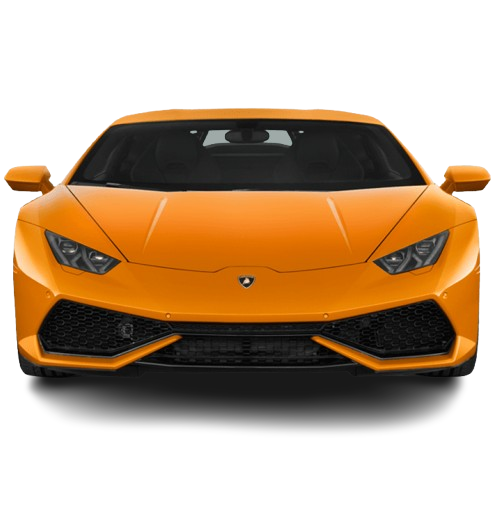
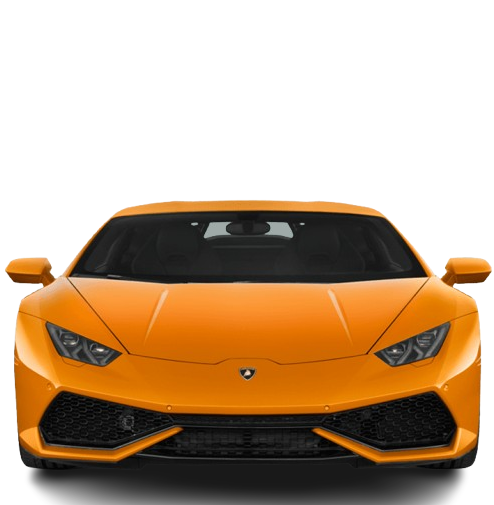
Novas atualizações Site Lamborghini
Feito a garagem dos veículos da Lamborghini;

Imagens não estão boas como eu gostaria, mas vai servir por enquanto.

Feito o alinhamente do elevador apenas para celular, versões para telas maiores ainda será feita.

Quero tentar refazer as duas páginas que tem o mesmo designe, tentar algo que funcione melhor.
O principal problema é o alinhamento em cima do elevador, vou estudar para fazer algo melhor!

diff --git a/Re-desafios/Projeto-Phone/Pages/garagem-lambo.html b/Re-desafios/Projeto-Phone/Pages/garagem-lambo.html
@@ -11,9 +11,10 @@
 
     <main>
         <section class="vagas" id="garagem">
+            <!-- Lamborghini Urus -->
             <div class="modelos" id="modelo">
                 <div class="titulos">
-                    <h1>Lamborghini Urus</h1>
+                    <h1>Urus</h1>
 
                 </div>
 
@@ -29,7 +30,7 @@
 
             <div class="modelos" id="modelo">
                 <div class="titulos">
-                    <h1>Lamborghini Urus</h1>
+                    <h1>Urus</h1>
 
                 </div>
 
@@ -43,15 +44,16 @@
 
             </div>
 
+            <!-- Lamborghini Temerario  -->
             <div class="modelos" id="modelo">
                 <div class="titulos">
-                    <h1>Lamborghini Urus</h1>
+                    <h1>Temerario</h1>
 
                 </div>
 
                 <div class="fotos">
-                    <div class="imagens">
-                        <img src="../images/Lamborghini/Revuelto-front.png" alt="teste">
+                    <div class="imagens imagens-menores">
+                        <img src="../images/Lamborghini/temerario-front.png" alt="teste">
 
                     </div>
 
@@ -61,13 +63,30 @@
 
             <div class="modelos" id="modelo">
                 <div class="titulos">
-                    <h1>Lamborghini Urus</h1>
+                    <h1>Temerario</h1>
 
                 </div>
 
                 <div class="fotos">
-                    <div class="imagens">
-                        <img src="../images/Lamborghini/images-removebg-preview.png" alt="teste">
+                    <div class="imagens imagens-menores">
+                        <img src="../images/Lamborghini/temerario-back.png" alt="teste">
+
+                    </div>
+
+                </div>
+
+            </div>
+
+            <!-- Lamborghini Revuelto -->
+            <div class="modelos" id="modelo">
+                <div class="titulos">
+                    <h1>Revuelto</h1>
+
+                </div>
+
+                <div class="fotos">
+                    <div class="imagens imagens-menores">
+                        <img src="../images/Lamborghini/revuelto-front.png" alt="teste">
 
                     </div>
 
@@ -77,15 +96,36 @@
 
             <div class="modelos" id="modelo">
                 <div class="titulos">
-                    <h1>Lamborghini Urus</h1>
+                    <h1>Revuelto</h1>
 
                 </div>
 
                 <div class="fotos">
                     <div class="imagens">
-                        <img src="../images/Lamborghini/images-removebg-preview.png" alt="teste">
+                        <img src="../images/Lamborghini/revuelto-back.png" alt="teste">
 
                     </div>
+
+                </div>
+
+                </div>
+
+            </div>
+
+            <!-- Lamborghini Huracan -->
+            <div class="modelos" id="modelo">
+                <div class="titulos">
+                    <h1>Huracan</h1>
+
+                </div>
+
+                <div class="fotos">
+                    <div class="imagens" id="huracan">
+                        <img src="../images/Lamborghini/huracan-front.png" alt="teste">
+
+                    </div>
+
+                </div>
 
                 </div>
 
@@ -93,13 +133,13 @@
 
             <div class="modelos" id="modelo">
                 <div class="titulos">
-                    <h1>Lamborghini Urus</h1>
+                    <h1>Huracan</h1>
 
                 </div>
 
                 <div class="fotos">
-                    <div class="imagens">
-                        <img src="../images/Lamborghini/images-removebg-preview.png" alt="teste">
+                    <div class="imagens imagens-menores">
+                        <img src="../images/Lamborghini/huracan-back.png" alt="teste">
 
                     </div>
 

diff --git a/Re-desafios/Projeto-Phone/styles/garagem-lamborghini.css b/Re-desafios/Projeto-Phone/styles/garagem-lamborghini.css
@@ -27,7 +27,7 @@ body {
     width: 100vw;
     height: 100vh;
 
-    background: black url("../images/Lamborghini/Background-image5.jpg") no-repeat center center/cover;
+    background: black url("../images/Lamborghini/Background-image3.jpg") no-repeat center center/cover;
 
 }
 
@@ -48,7 +48,7 @@ section.vagas {
     /*height: 550px;*/
     height: 63%;
 
-    margin-top: 120px;
+    margin-top: 70px;
 
     overflow-x: scroll;
 
@@ -86,7 +86,7 @@ section.vagas::-webkit-scrollbar-thumb:active {
 /* Modelos */
 section.vagas .modelos {
     width: 100%;
-    height: 99%;
+    height: 97%;
 
     flex-shrink: 0;
 
@@ -98,15 +98,15 @@ section.vagas .modelos {
 
 section.vagas .modelos .titulos {
     width: 70%;
-    height: 150px;
-    margin-top: 10px;
+    /*height: 150px;*/
+    height: 30%;
+    padding: 25px;
 
     border: 2px solid orangered;
     border-radius: 20px;
 
     color: whitesmoke;
     text-align: center;
-    line-height: 150px;
 
     align-self: center;
 
@@ -118,7 +118,8 @@ section.vagas .modelos .titulos {
 
 section.vagas .modelos .fotos {
     width: 100%;
-    height: 400px;
+    /*height: 400px;*/
+    height: 60%;
 
     display: flex;
     flex-flow: column nowrap;
@@ -130,14 +131,24 @@ section.vagas .modelos .fotos {
 section.vagas .modelos .fotos > .imagens {
     width: 80%;
     height: 80%;
-    margin-right: 40px;
-
-    outline: 2px solid green;
+    margin-right: 20px;
 
 }
 
 section.vagas .modelos .fotos > .imagens img {
     width: 100%;
     height: 100%;
+
+}
+
+section.vagas .modelos .fotos > .imagens-menores {
+    width: 78%;
+    height: 60%;
+
+}
+
+section.vagas .modelos .fotos > #huracan {
+    width: 70%;
+    height: 80%;
 
 }

diff --git a/Re-desafios/Projeto-Phone/styles/lamborghini.css b/Re-desafios/Projeto-Phone/styles/lamborghini.css
@@ -132,6 +132,19 @@ section#historia .textos > .txt h1 {
 
 }
 
+section#historia .textos > .txt a {
+    text-decoration: none;
+    color: #adff2f;
+
+}
+
+section#historia .textos > .txt a:hover::before, section#historia .textos > .txt a:hover {
+    content: "🔗";
+    color: orangered;
+    font-weight: bold;
+
+}
+
 /* Configuração da barra de rolagem */
 
 section#historia::-webkit-scrollbar {

diff --git a/Re-desafios/Projeto-Phone/Pages/lamborghini.html b/Re-desafios/Projeto-Phone/Pages/lamborghini.html
@@ -274,6 +274,14 @@
 
             </div>
 
+            <div class="textos">
+                <div class="txt">
+                    <span>Veja alguns modelos da marca: <a href="garagem-lambo.html">Garagem Lamborghini</a></span>
+
+                </div>
+
+            </div>
+
         </section>
 
     </main>
